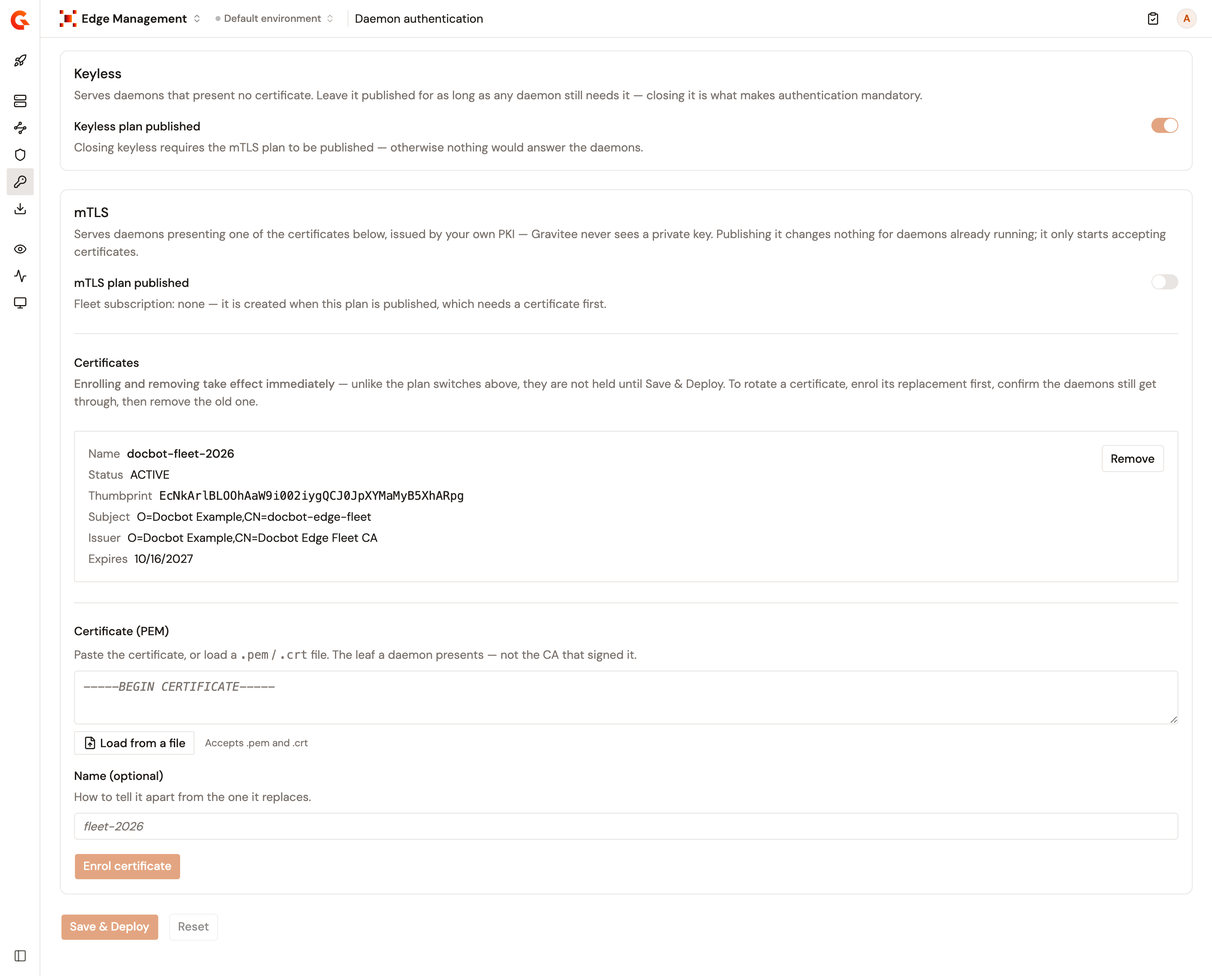
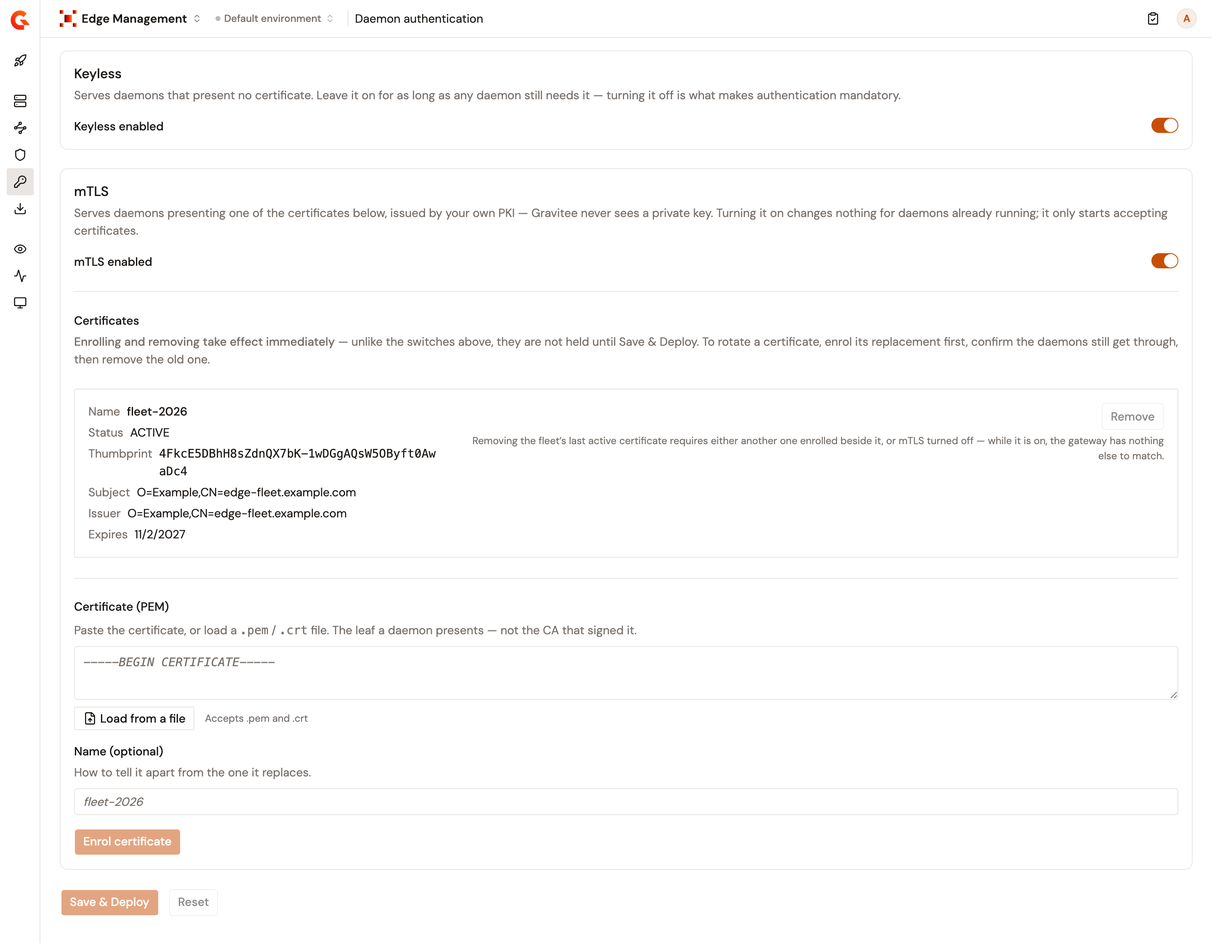
docs(gamma-4.14): daemon authentication without plans (EDGE-163)
Edge Management now authenticates the daemon fleet with keyless and mTLS
switches on the Daemon authentication page, with no keyless or mTLS plan,
fleet application, or fleet subscription. Rewrites Configure daemon
authentication (enrol, turn on mTLS, turn off keyless, rotate, environments
configured before daemon authentication), rewrites the clientAuth table and
the trust section of Secure the Edge Reactor listener (enrolled certificates
trusted on the listener, refused at the TLS handshake otherwise), and updates
the setup Authentication step, the Kandji page, the overview, and the 4.14
release notes. Two captures from the Edge module 3.0.0-alpha.8 replace the
plan-based ones, and the mTLS-accepted capture is removed.

diff --git a/docs/gamma/4.14/edge-management/connect/configure-daemon-authentication.md b/docs/gamma/4.14/edge-management/connect/configure-daemon-authentication.md
@@ -1,36 +1,36 @@
 ---
 hidden: false
 noIndex: false
-description: Decide how the Edge Daemons of an environment identify themselves to the Gamma Edge Reactor. Follow the steps to enrol a certificate, publish the mTLS plan, and close the keyless plan.
+description: Decide how the Edge Daemons of an environment identify themselves to the Gamma Edge Reactor. Follow the steps to enrol a certificate, turn on mTLS, and turn off keyless.
 ---
 
 # Configure daemon authentication
 
 ## Overview
 
-The **Daemon authentication** page decides how the Edge Daemons of an environment identify themselves to the Edge Reactor. A daemon calls the Edge Reactor to fetch its configuration, send its heartbeat, and report its metrics and its shadow AI detections. Two plans answer these calls:
+The **Daemon authentication** page decides how the Edge Daemons of an environment identify themselves to the Edge Reactor. A daemon calls the Edge Reactor to fetch its configuration, send its heartbeat, and report its metrics and its shadow AI detections. Two authentication methods answer these calls, each with its own switch:
 
-* **Keyless** serves daemons that present no certificate. It's published when the configuration is created.
-* **mTLS** serves daemons that present one of the certificates enrolled on the page. It's created unpublished.
+* **Keyless** serves daemons that present no certificate, and every daemon while mTLS is off. It's on by default.
+* **mTLS** serves daemons that present one of the active certificates enrolled on the page. It's off by default.
 
-The certificates come from your own PKI, and Gravitee never sees a private key. Closing the keyless plan is what makes authentication mandatory.
+Both methods can be on at the same time, and at least one always stays on. The certificates come from your own PKI, and Gravitee never sees a private key. Turning keyless off is what makes authentication mandatory.
 
 Daemon authentication covers the calls that a daemon makes to the Edge Reactor. The traffic that a daemon intercepts goes to the target API of its route, which applies its own plans. See [Secure a route with an OAuth2 plan](configure-edge-management.md#secure-a-route-with-an-oauth2-plan).
 
-<figure><img src="../.gitbook/assets/edge-daemon-authentication.png" alt="The Daemon authentication page with the Keyless card, the mTLS card with one enrolled certificate, and the Save & Deploy and Reset buttons"><figcaption><p>The Daemon authentication page.</p></figcaption></figure>
+<figure><img src="../.gitbook/assets/edge-daemon-authentication.png" alt="The Daemon authentication page with Keyless enabled and mTLS enabled turned on, one enrolled certificate whose status reads ACTIVE, the Certificate (PEM) field, and the Save & Deploy and Reset buttons"><figcaption><p>The Daemon authentication page.</p></figcaption></figure>
 
 ## Before you start
 
 * A configuration exists for the environment. See [Set up Edge Management](set-up-edge-management.md).
 * Permission to edit the Edge configuration of the environment. Without it, the page is read-only.
 * A leaf certificate for your fleet, issued by your PKI, in PEM format. Enrol the certificate that the daemons present, not the certificate authority that signed it.
-* The certificates of the daemons reach the Edge Reactor. By default, the Edge Reactor listener asks for none, and the mTLS plan matches no daemon. See [Secure the Edge Reactor listener](secure-the-edge-reactor-listener.md).
+* The certificates of the daemons reach the Edge Reactor. By default, the Edge Reactor listener asks for none, so mTLS authenticates no daemon. See [Secure the Edge Reactor listener](secure-the-edge-reactor-listener.md).
 
 To configure daemon authentication, complete the following steps:
 
 1. [Enrol a certificate](#enrol-a-certificate)
-2. [Publish the mTLS plan](#publish-the-mtls-plan)
-3. [Close the keyless plan](#close-the-keyless-plan)
+2. [Turn on mTLS](#turn-on-mtls)
+3. [Turn off keyless](#turn-off-keyless)
 
 ## Enrol a certificate
 
@@ -40,20 +40,27 @@ To configure daemon authentication, complete the following steps:
 4. Optional: In **Name (optional)**, enter a name that tells the certificate apart from the one it replaces.
 5. Click **Enrol certificate**.
 
-Enrolling a certificate takes effect immediately. Unlike the plan switches, it isn't held until **Save & Deploy**.
+Enrolling a certificate takes effect immediately. Unlike the switches, it isn't held until **Save & Deploy**.
 
-A certificate whose validity starts on a later date is enrolled, but the mTLS plan matches it only from that date. While no enrolled certificate is active, the keyless plan can't be closed.
+A certificate authority, a file that holds no PEM certificate, and a certificate already enrolled in the environment are refused. When the PEM holds several certificates, only the first one is enrolled, so put the certificate that the daemons present first.
 
-A certificate that's already enrolled on an application of the environment, the daemon fleet's included, is refused.
+Each enrolled certificate is listed under **Certificates**, and its **Status** says whether the certificate is valid today:
 
-## Publish the mTLS plan
+* `ACTIVE`: The certificate is valid today.
+* `ACTIVE_WITH_END`: The certificate is valid today and has an end date. The enrol form sets no end date, so this status only shows for a certificate enrolled with one through the Management API.
+* `SCHEDULED`: The validity of the certificate starts on a later date. It becomes active on its own on that date.
+* `ENDED`: The validity of the certificate is over. It stays in the list until you remove it.
 
-1. In the **mTLS** card, turn on **mTLS plan published**.
+While no enrolled certificate is active, mTLS accepts no daemon, and keyless can't be turned off.
+
+## Turn on mTLS
+
+1. In the **mTLS** card, turn on **mTLS enabled**.
 2. Click **Save & Deploy**.
 
-The plan switches are held until **Save & Deploy**, which deploys the Edge API of the environment again. **Reset** discards them. While no enrolled certificate is active, **Save & Deploy** stays unavailable with the mTLS plan turned on.
+The switches are held until **Save & Deploy**, which deploys the Edge API of the environment again. **Reset** discards them. While no enrolled certificate is active, you can't save **mTLS enabled** turned on: **Save & Deploy** stays unavailable, and the hint next to it says why.
 
-Publishing the plan subscribes the daemon fleet to it, and **Fleet subscription** then reads **accepted**. It changes nothing for the daemons already running. It only starts accepting certificates.
+Turning on mTLS changes nothing for the daemons that present no certificate while keyless is on. From then on, a daemon that presents a certificate is served only when that certificate is enrolled on the page and active.
 
 The daemons present the certificate from your PKI, and Gravitee never sees its private key. Getting the certificate and its key onto your devices happens outside Gravitee, for example with your MDM.
 
@@ -63,26 +70,20 @@ Install each daemon with the following flags of its installation script:
 * `--client-key`: The private key of that certificate.
 * `--reactor-ca`: The certificate authority that signed the certificate of the Edge Reactor listener, so that the daemon trusts the listener. Pass it only when a private certificate authority signs that certificate. For a self-signed certificate, pass the certificate itself.
 
-Once the mTLS plan is published, the Kandji script of the **Daemon deployment** page passes `--client-cert` and `--client-key`, with `--reactor-ca` commented out on its last line. See [Configure Kandji to deploy the Edge Daemon](configure-kandji-daemon.md#create-the-kandji-custom-app).
+Once mTLS is on, the Kandji script of the **Daemon deployment** page passes `--client-cert` and `--client-key`, with `--reactor-ca` commented out on its last line. See [Configure Kandji to deploy the Edge Daemon](configure-kandji-daemon.md#create-the-kandji-custom-app).
 
-## Close the keyless plan
+## Turn off keyless
 
-Closing the keyless plan refuses every daemon that presents no certificate. Leave it published for as long as any daemon still needs it.
+Turning keyless off refuses every daemon that presents no certificate. Leave it on for as long as any daemon still needs it.
 
-1. In the **Keyless** card, turn off **Keyless plan published**.
+1. In the **Keyless** card, turn off **Keyless enabled**.
 2. Click **Save & Deploy**.
 
-The switch stays unavailable until the following conditions are met, and its hint names the one that's missing:
+The switch stays unavailable until **mTLS enabled** is turned on and an enrolled certificate is active, and its hint names what's missing. You can turn on mTLS and turn off keyless in the same save.
 
-* The mTLS plan is published.
-* A certificate is active.
-* The fleet subscription to the mTLS plan is accepted.
+At least one method always stays on. While keyless is off, **mTLS enabled** can't be turned off.
 
-The fleet subscription only exists once the mTLS plan is published, so publish the mTLS plan and close the keyless plan in two separate saves.
-
-One plan always stays published. While the keyless plan is closed, **mTLS plan published** can't be turned off.
-
-To serve daemons without a certificate again, turn **Keyless plan published** back on, and click **Save & Deploy**.
+To serve daemons without a certificate again, turn **Keyless enabled** back on, and click **Save & Deploy**.
 
 ## Rotate a certificate
 
@@ -92,11 +93,13 @@ To rotate a certificate, enrol its replacement first, and remove the old one onc
 2. Check that your daemons still get through with the new certificate.
 3. Click **Remove** on the old certificate.
 
-Removing a certificate takes effect immediately. While the mTLS plan is published, the last active certificate can't be removed. Enrol its replacement first, or unpublish the mTLS plan.
+Removing a certificate takes effect immediately. While mTLS is on, the last active certificate can't be removed. Enrol its replacement first, or turn off mTLS.
+
+If every enrolled certificate ends while mTLS is on, mTLS accepts no daemon until a certificate is active again. Enrol the replacement before the **Expires** date of the last active certificate.
 
 ## Environments configured before daemon authentication
 
-An environment whose configuration predates daemon authentication has no fleet application, so the page has nowhere to enrol a certificate and says so. The next **Save & Deploy** from any configuration page of Edge Management creates the fleet application, along with the **Keyless** and **mTLS** plans if either is missing. Publishing the mTLS plan isn't the way in, because it can't be saved without a certificate.
+An environment configured before daemon authentication existed opens the page with keyless on, mTLS off, and no certificate. Until its Edge API is deployed again from Edge Management, the Edge Reactor refuses every call from its daemons. Any change that you save in Edge Management for the environment deploys it, for example enrolling a certificate. The redeployed Edge API has keyless on, as by default.
 
 ## Verification
 
@@ -104,10 +107,8 @@ To verify that daemon authentication is working as expected, follow these steps:
 
 1. Open **Edge Management**.
 2. Click **Daemon authentication**.
-3. In the **mTLS** card, check that **Fleet subscription** reads **accepted**.
+3. Under **Certificates**, check that the **Status** of your certificate reads `ACTIVE` or `ACTIVE_WITH_END`.
 4. Click **Devices**, and check that your devices report as **Active**.
-
-<figure><img src="../.gitbook/assets/edge-daemon-authentication-mtls-accepted.png" alt="The mTLS card of the Daemon authentication page, with mTLS plan published turned on, Fleet subscription reading accepted, and one active certificate"><figcaption><p>The mTLS card with an accepted fleet subscription.</p></figcaption></figure>
 
 ## Next steps
 

diff --git a/docs/gamma/4.14/edge-management/connect/secure-the-edge-reactor-listener.md b/docs/gamma/4.14/edge-management/connect/secure-the-edge-reactor-listener.md
@@ -10,9 +10,9 @@ description: The Gamma Edge Reactor listener is plain HTTP by default. Learn how
 
 The Edge Reactor listens on its own port on the gateway, `18093` by default, separate from the port that serves your APIs. By default, the listener is plain HTTP and asks no daemon for a certificate.
 
-The mTLS plan of daemon authentication only matches a daemon whose certificate reaches the Edge Reactor. Run the listener over TLS and ask the daemons for a certificate, or, when TLS ends at a proxy in front of the gateway, have that proxy forward the certificate. See [Configure daemon authentication](configure-daemon-authentication.md).
+mTLS, in daemon authentication, only authenticates a daemon whose certificate reaches the Edge Reactor. Run the listener over TLS and ask the daemons for a certificate, or, when TLS ends at a proxy in front of the gateway, have that proxy forward the certificate. See [Configure daemon authentication](configure-daemon-authentication.md).
 
-Once the listener runs over TLS, the daemons reach it at an `https://` **Reactor URL**, and each daemon must trust the listener's certificate. When a private certificate authority signs that certificate, or when it's self-signed, install the daemons with `--reactor-ca`. See [Configure daemon authentication](configure-daemon-authentication.md#publish-the-mtls-plan).
+Once the listener runs over TLS, the daemons reach it at an `https://` **Reactor URL**, and each daemon must trust the listener's certificate. When a private certificate authority signs that certificate, or when it's self-signed, install the daemons with `--reactor-ca`. See [Configure daemon authentication](configure-daemon-authentication.md#turn-on-mtls).
 
 The listener reads its settings from the `edge` block of the gateway's `gravitee.yml`, or from `gateway.edge` in the Helm chart.
 
@@ -31,9 +31,6 @@ edge:
       certificates:
         - cert: ${gravitee.home}/security/edge-server.pem
           key: ${gravitee.home}/security/edge-server.key
-    truststore:
-      type: pem
-      path: ${gravitee.home}/security/edge-fleet-ca.pem
 ```
 
 The following table describes each field:
@@ -49,7 +46,7 @@ The following table describes each field:
 | `ssl.keystore.certificates` | The certificate and key files, as `cert` and `key` pairs, for the `pem` type.                                                                                                                            | -         |
 | `ssl.keystore.password`     | The password of the keystore.                                                                                                                                                                            | -         |
 | `ssl.truststore.type`       | The format of the truststore: `jks`, `pem`, or `pkcs12`.                                                                                                                                                 | `jks`     |
-| `ssl.truststore.path`       | The truststore file, which holds the certificate authority of your fleet. See [Trust the certificate authority of your fleet](#trust-the-certificate-authority-of-your-fleet).                         | -         |
+| `ssl.truststore.path`       | Optional. A truststore file, which changes which certificates complete the TLS handshake. See [Trust the enrolled certificates](#trust-the-enrolled-certificates).                                    | -         |
 | `ssl.truststore.password`   | The password of the truststore.                                                                                                                                                                          | -         |
 
 ## Configure the listener with Helm
@@ -69,12 +66,9 @@ gateway:
         certificates:
           - cert: /opt/graviteeio-gateway/security/edge-server.pem
             key: /opt/graviteeio-gateway/security/edge-server.key
-      truststore:
-        type: pem
-        path: /opt/graviteeio-gateway/security/edge-fleet-ca.pem
 ```
 
-Mount the keystore and the truststore files into the gateway pods, or point `ssl.keystore.secret` and `ssl.truststore.secret` at Kubernetes secrets instead of files, for example `secret://kubernetes/apim-gateway-edge-tls`.
+Mount the keystore files, and the truststore file if you use one, into the gateway pods, or point `ssl.keystore.secret` and `ssl.truststore.secret` at Kubernetes secrets instead of files, for example `secret://kubernetes/apim-gateway-edge-tls`.
 
 To expose the listener outside the cluster, see [Configure Edge Ingress](configure-edge-ingress.md).
 
@@ -82,25 +76,29 @@ To expose the listener outside the cluster, see [Configure Edge Ingress](configu
 
 `ssl.clientAuth` decides what happens to a daemon, depending on the certificate it presents:
 
-| Value      | Outcome                                                                                                                                                                                                                                                                                                       |
-| ---------- | ------------------------------------------------------------------------------------------------------------------------------------------------------------------------------------------------------------------------------------------------------------------------------------------------------------- |
-| `none`     | The listener never asks for a certificate, so the mTLS plan matches no daemon. While the keyless plan is published, it serves every daemon, even one that holds an enrolled certificate. Once the keyless plan is closed, every daemon is refused.                                                           |
-| `request`  | The listener asks for a certificate and accepts a daemon that has none. A daemon that presents no certificate is served by the keyless plan while it's published. A daemon that presents an enrolled certificate is served by the mTLS plan. A daemon that presents a certificate that isn't enrolled is refused, even while the keyless plan is published. |
-| `required` | The TLS handshake fails for a daemon that presents no certificate, so the keyless plan serves no daemon. A daemon that presents an enrolled certificate is served by the mTLS plan, and one that presents a certificate that isn't enrolled is refused.                                                       |
+| Value      | Outcome                                                                                                                                                                                                                                                                                                                   |
+| ---------- | ------------------------------------------------------------------------------------------------------------------------------------------------------------------------------------------------------------------------------------------------------------------------------------------------------------------------- |
+| `none`     | The listener never asks for a certificate. Unless a proxy forwards the certificate in a header, mTLS authenticates no daemon, even one that holds an enrolled certificate. While keyless is on, every daemon is then served, and while mTLS is the only method on, every daemon is refused.                              |
+| `request`  | The listener asks for a certificate and accepts a daemon that has none. A daemon that presents no certificate is served while keyless is on. While mTLS is on, a daemon that presents a certificate is served only when that certificate is enrolled in the environment and active, even while keyless is on.             |
+| `required` | The TLS handshake fails for a daemon that presents no certificate, even while keyless is on. It also fails for a certificate that the listener doesn't trust, and that daemon gets no HTTP answer. See [Trust the enrolled certificates](#trust-the-enrolled-certificates). While mTLS is on, a daemon that completes the handshake is served only when its certificate is enrolled in the environment and active. |
 
 Gravitee recommends `request` on development and test environments, and `required` in production.
 
 When the settings let no client certificate reach the listener, the gateway logs a warning at startup that begins with `No client certificate can ever reach the Edge server`.
 
-## Trust the certificate authority of your fleet
+## Trust the enrolled certificates
 
-The truststore holds the certificate authority that signs the certificates of your fleet, not the enrolled certificates themselves. TLS checks that a daemon's certificate chains to that authority, and the mTLS plan then matches the exact certificate against the ones enrolled on the **Daemon authentication** page.
+The listener trusts the certificates enrolled on the **Daemon authentication** page of every environment that the gateway serves, and no other certificate by default. Each certificate is trusted from the start of its validity until its end, and a replacement is trusted before the certificate it replaces is removed. Without a truststore, the listener trusts no certificate until an enrolled certificate is active, so with `required`, every daemon is refused at the TLS handshake until then.
 
-Recommended: Use a dedicated intermediate certificate authority for your fleet. With a corporate-wide one, more certificates complete the TLS handshake with the listener.
+Without a truststore, completing the handshake only proves that a certificate is enrolled in one of the environments. While mTLS is on in the environment that the daemon calls, each call is then served only when the certificate is enrolled in that environment and active. While mTLS is off there, the certificate is ignored.
+
+A truststore is optional. With `required`, a certificate that one of its certificate authorities signed also completes the handshake, even when it isn't enrolled, and the call is then refused while mTLS is on. With `request`, a truststore makes the handshake fail for a certificate that neither the truststore nor the enrolled certificates trust.
+
+Recommended: Leave out the truststore, or use a dedicated intermediate certificate authority for your fleet. With a corporate-wide one, more certificates complete the TLS handshake with the listener.
 
 ## Terminate TLS in front of the gateway
 
-When a proxy in front of the gateway ends TLS, such as an Ingress or a load balancer, the daemon's certificate stops at that proxy. For the mTLS plan to match it, have the proxy forward the certificate in a request header, and name that header in the gateway's HTTP settings with `http.ssl.clientAuthHeader.name`. Only a header in the form that NGINX sets works.
+When a proxy in front of the gateway ends TLS, such as an Ingress or a load balancer, the daemon's certificate stops at that proxy. For mTLS to authenticate the daemon, have the proxy forward the certificate in a request header, and name that header in the gateway's HTTP settings with `http.ssl.clientAuthHeader.name`. A header in the form that Nginx sets works.
 
 The Edge Reactor reads the certificate from the same header as the rest of the gateway. Set it only when the proxy writes that header on every request, so that no daemon sends its own.
 

diff --git a/docs/gamma/4.14/edge-management/connect/set-up-edge-management.md b/docs/gamma/4.14/edge-management/connect/set-up-edge-management.md
@@ -100,19 +100,19 @@ Watching a domain for shadow AI and intercepting it are independent. Shadow AI d
 
 ## Choose how the daemons authenticate
 
-This step decides how the Edge Daemons of the environment identify themselves to the Edge Reactor. Nothing here is required. By default, the **Keyless** plan is published, so the daemons reach their configuration without presenting anything, and the **mTLS** plan is created unpublished.
+This step decides how the Edge Daemons of the environment identify themselves to the Edge Reactor. Nothing here is required. By default, keyless is on, so the daemons reach their configuration without presenting anything, and mTLS is off.
 
-<figure><img src="../.gitbook/assets/edge-setup-authentication.png" alt="Step 4 of the guided setup, Authentication, with the Keyless card and the mTLS card with its Certificate (PEM) field"><figcaption><p>Step 4 of the guided setup.</p></figcaption></figure>
+<figure><img src="../.gitbook/assets/edge-setup-authentication.png" alt="Step 4 of the guided setup, Authentication, with Keyless enabled turned on, mTLS enabled turned off, and the optional Certificate (PEM) field"><figcaption><p>Step 4 of the guided setup.</p></figcaption></figure>
 
 {% hint style="warning" %}
-**Closing the keyless plan here refuses every daemon until their certificates reach the Edge Reactor.** By default, the Edge Reactor listener asks the daemons for no certificate, so the mTLS plan matches none of them. Secure the listener first, and install the daemons with the certificate. See [Secure the Edge Reactor listener](secure-the-edge-reactor-listener.md) and [Configure daemon authentication](configure-daemon-authentication.md#publish-the-mtls-plan).
+**Turning keyless off here refuses every daemon until their certificates reach the Edge Reactor.** By default, the Edge Reactor listener asks the daemons for no certificate, so mTLS authenticates none of them. Secure the listener first, and install the daemons with the certificate. See [Secure the Edge Reactor listener](secure-the-edge-reactor-listener.md) and [Configure daemon authentication](configure-daemon-authentication.md#turn-on-mtls).
 {% endhint %}
 
-1. Optional: To use mTLS from the start, paste the certificate of your fleet in **Certificate (PEM)**, or click **Load from a file**, and turn on **mTLS plan published**.
-2. Optional: To serve only the daemons that present that certificate, turn off **Keyless plan published**. The setup publishes the mTLS plan first, and closes the keyless plan in a second save, once the fleet subscription exists.
+1. Optional: To use mTLS from the start, paste the certificate of your fleet in **Certificate (PEM)**, or click **Load from a file**, and turn on **mTLS enabled**.
+2. Optional: To serve only the daemons that present that certificate, turn off **Keyless enabled**.
 3. Click **Next**.
 
-The certificate is checked as you enter it, and a certificate that's refused holds **Next** until you fix it or clear the field. If the certificate or the plans are refused when the configuration is created, the configuration is still created and deployed, and the page says so. Finish from the **Daemon authentication** page.
+The certificate is checked as you enter it. A certificate that's refused holds **Next** until you fix it, or until you clear the field and turn off **mTLS enabled**. If the certificate or the methods you chose are refused when the configuration is created, the configuration is still created and deployed. The page then says **The daemon authentication was not applied**. Finish from the **Daemon authentication** page.
 
 For everything this step offers, see [Configure daemon authentication](configure-daemon-authentication.md).
 
@@ -124,7 +124,7 @@ The last step lists what will be created.
 <figure><img src="../.gitbook/assets/PLACEHOLDER-edge-setup-review.png" alt="Step 5 of the guided setup, Deploy, summarizing the gateway addresses, the intercepted agents, the shadow AI domains, and the daemon authentication before Create & Deploy"><figcaption><p>Step 5 of the guided setup.</p></figcaption></figure>
 
 1. Check the gateway addresses, the intercepted agents, the shadow AI domains, and the daemon authentication.
-2. Click **Create & Deploy**. This publishes an Edge API for the environment and deploys it to the gateway. The API carries the **Keyless** and **mTLS** plans, published as you chose in the **Authentication** step.
+2. Click **Create & Deploy**. This publishes an Edge API for the environment, deploys it to the gateway, and applies the daemon authentication you chose in the **Authentication** step.
 
 If an agent's target API can't serve its route yet, a dialog names the agent, the route, and the reason before you commit. It's a warning, not a refusal: click **Create & Deploy anyway** to create the configuration and fix the API afterward, or **Back to configuration** to change the route first. See [Understand the route verdicts](configure-edge-management.md#understand-the-route-verdicts).
 

diff --git a/docs/gamma/4.14/platform-management/gamma-release-notes.md b/docs/gamma/4.14/platform-management/gamma-release-notes.md
@@ -22,15 +22,15 @@ Agent Management adds the AWS Lambda and Data Cache policies to LLM Proxies.
 
 ### Edge Management
 
-Edge Management secures the calls of the Edge Daemons with Gravitee plans. The daemons identify themselves to the Edge Reactor through a keyless plan, an mTLS plan that matches the certificates of your fleet, or both. The routes of an intercepted agent take an OAuth2 plan of their target API, so that each developer signs in with your identity provider.
+Edge Management decides how the Edge Daemons identify themselves to the Edge Reactor: keyless, mTLS with the certificates of your fleet, or both. The routes of an intercepted agent take an OAuth2 plan of their target API, so that each developer signs in with your identity provider.
 
 #### Daemon authentication
 
 * The new **Daemon authentication** page, in the **Configuration** group, and the new **Authentication** step of the guided setup decide how the daemons of an environment identify themselves to the Edge Reactor.
-* The **Keyless** plan serves daemons that present no certificate, and it's published by default. The **mTLS** plan serves daemons that present one of the certificates enrolled on the page, issued by your own PKI. Gravitee never sees a private key.
-* Closing the keyless plan makes authentication mandatory. It closes once the mTLS plan is published, a certificate is active, and the fleet subscription is accepted.
-* The Edge Reactor listener runs over TLS and asks the daemons for a client certificate once you configure it to. By default, it stays plain HTTP. See [Secure the Edge Reactor listener](../edge-management/connect/secure-the-edge-reactor-listener.md).
-* An environment configured before 4.14 has no fleet application yet. The next **Save & Deploy** from any configuration page of Edge Management creates it, along with the **Keyless** and **mTLS** plans if either is missing. Until you close it, the keyless plan keeps serving the daemons.
+* **Keyless** serves daemons that present no certificate, and every daemon while mTLS is off. It's on by default. **mTLS** serves daemons that present one of the active certificates enrolled on the page, issued by your own PKI. Gravitee never sees a private key. Both can be on at the same time, and at least one always stays on.
+* Turning keyless off makes authentication mandatory. Keyless can be turned off once mTLS is on and an enrolled certificate is active.
+* The Edge Reactor listener runs over TLS and asks the daemons for a client certificate once you configure it to. By default, it stays plain HTTP. When the listener requires a certificate, a certificate that it doesn't trust fails at the TLS handshake. It trusts the enrolled certificates, and mTLS only accepts a certificate in the environment that enrolled it. See [Secure the Edge Reactor listener](../edge-management/connect/secure-the-edge-reactor-listener.md).
+* After the upgrade, the Edge Reactor refuses every call from the daemons of an environment configured before 4.14, until its Edge API is deployed again. Any change that you save in Edge Management for that environment deploys it, for example enrolling a certificate. The redeployed Edge API has keyless on, as by default.
 * See [Configure daemon authentication](../edge-management/connect/configure-daemon-authentication.md).
 
 #### OAuth2 plans on intercepted routes

diff --git a/docs/gamma/4.14/edge-management/get-started/edge-management-overview.md b/docs/gamma/4.14/edge-management/get-started/edge-management-overview.md
@@ -9,7 +9,7 @@ description: What Edge Management does, how the Edge Daemon captures the AI traf
 Edge Management puts the Gravitee gateway between the AI coding agents that run on your managed devices and the AI providers they call. An Edge Daemon installed on each device intercepts the agents you choose and forwards their traffic to a target API on the gateway, where your policies, quotas, and analytics apply. The same daemon reports the AI providers that a device reaches directly, without the gateway.
 
 {% hint style="warning" %}
-**Edge Management is a preview feature, and it isn't production-ready.** It's under active development. By default, the Edge Reactor listener is plain HTTP, and the Edge API that Edge Management publishes for an environment serves the daemons through a keyless plan. That traffic is then neither encrypted by the reactor nor authenticated. Until you secure it, don't expose these endpoints over networks you don't trust. Restrict them to a private network, a VPN, or an IP-allowlisted corporate network. See [Secure the Edge Reactor listener](../connect/secure-the-edge-reactor-listener.md) and [Configure daemon authentication](../connect/configure-daemon-authentication.md).
+**Edge Management is a preview feature, and it isn't production-ready.** It's under active development. By default, the Edge Reactor listener is plain HTTP, and keyless is on in daemon authentication. The traffic between the daemons and the Edge Reactor is then neither encrypted by the reactor nor authenticated. Until you secure it, don't expose these endpoints over networks you don't trust. Restrict them to a private network, a VPN, or an IP-allowlisted corporate network. See [Secure the Edge Reactor listener](../connect/secure-the-edge-reactor-listener.md) and [Configure daemon authentication](../connect/configure-daemon-authentication.md).
 {% endhint %}
 
 ## How the traffic flows
@@ -41,7 +41,7 @@ A target API is a standard API on your gateway. Pick one you already have, or le
 
 Shadow AI detection has its own configuration: a list of provider domains to watch. Watching a domain and intercepting it are independent. A detection tells you that a device reached a provider directly, and nothing is routed.
 
-Daemon authentication decides how the daemons identify themselves to the Edge Reactor: through a keyless plan, through an mTLS plan that matches the certificates of your fleet, or through both. See [Configure daemon authentication](../connect/configure-daemon-authentication.md).
+Daemon authentication decides how the daemons identify themselves to the Edge Reactor: keyless, mTLS with the certificates of your fleet, or both. See [Configure daemon authentication](../connect/configure-daemon-authentication.md).
 
 ## Where things live in the console
 

diff --git a/docs/gamma/4.14/edge-management/connect/configure-kandji-daemon.md b/docs/gamma/4.14/edge-management/connect/configure-kandji-daemon.md
@@ -51,7 +51,7 @@ https://download.gravitee.io/graviteeio-ai/gravitee-gamma-edge-daemon/gravitee-g
 
 ## Create the Kandji Custom App
 
-Under **Kandji Custom App**, the page generates a post-install script prefilled with the Gateway URL and the Reactor URL of the environment. Once the mTLS plan is published, the script also passes the certificate of your fleet and its private key. It looks like the following example:
+Under **Kandji Custom App**, the page generates a post-install script with the Gateway URL and the Reactor URL of the environment filled in. Once mTLS is on, on the **Daemon authentication** page, the script also passes the certificate of your fleet and its private key. It looks like the following example:
 
 ```bash
 #!/bin/bash
@@ -69,7 +69,7 @@ To deploy the script, complete the following steps:
 
 1. In the Kandji admin console, create a new **Custom App**.
 2. Configure the app to extract the daemon package to `/tmp`.
-3. If the mTLS plan is published, add the certificate of your fleet and its private key to the Custom App zip, next to `install.sh`, as `client.crt` and `client.key`. If your daemons need `--reactor-ca`, add that certificate as `reactor-ca.crt` too, and uncomment the last line of the script. See [Configure daemon authentication](configure-daemon-authentication.md#publish-the-mtls-plan).
+3. If mTLS is on, add the certificate of your fleet and its private key to the Custom App zip, next to `install.sh`, as `client.crt` and `client.key`. If your daemons need `--reactor-ca`, add that certificate as `reactor-ca.crt` too, and uncomment the last line of the script. See [Configure daemon authentication](configure-daemon-authentication.md#turn-on-mtls).
 4. Paste the generated script as the post-install script.
 5. Enable **Restart after successful install** so that the environment variables set by the installer take effect immediately.
 6. Assign the Custom App to the appropriate device blueprints. Kandji then distributes and installs the Edge Daemon on all assigned devices.
